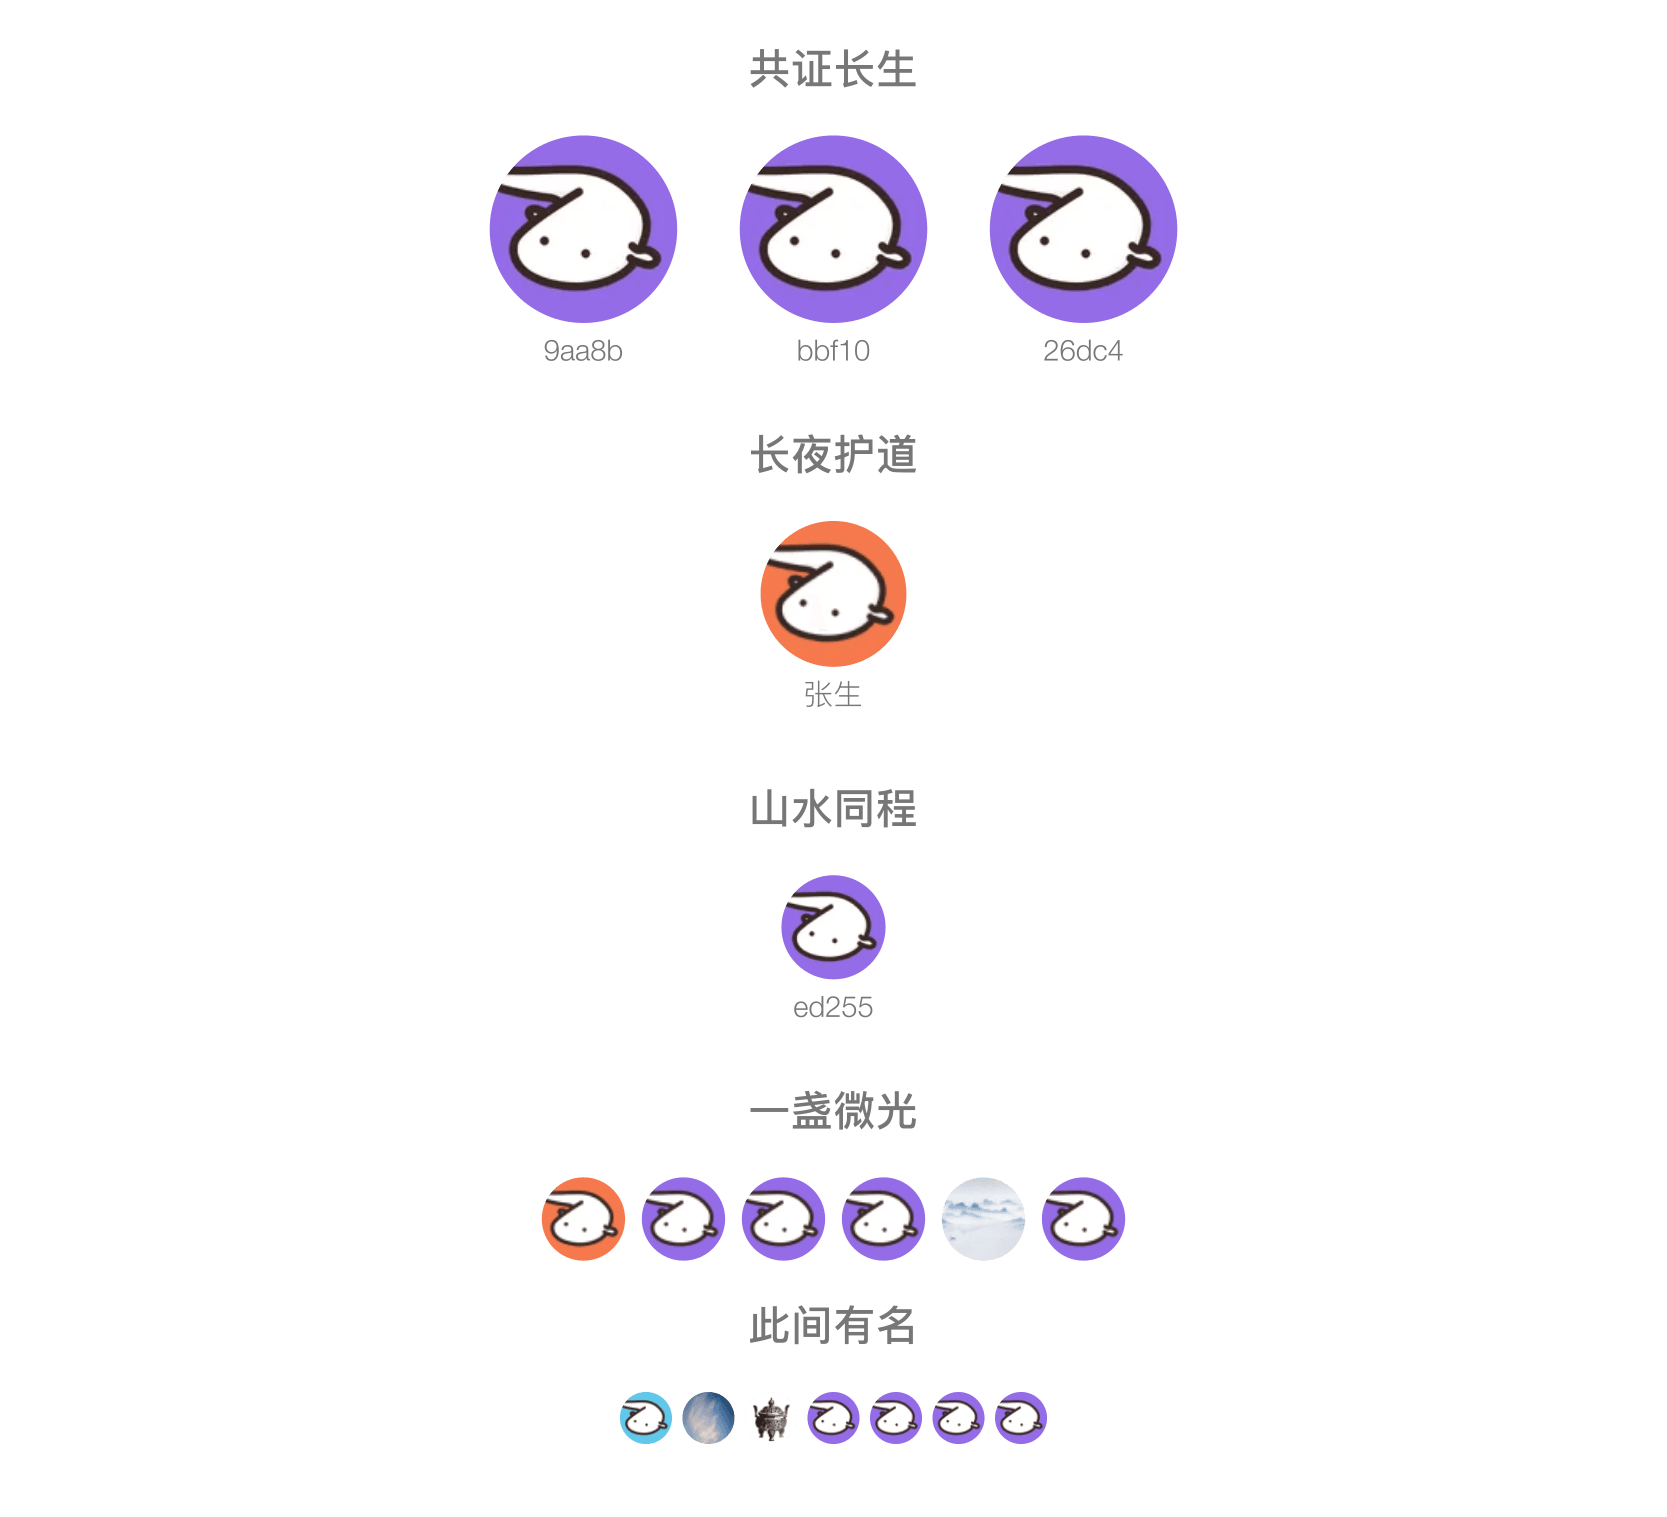
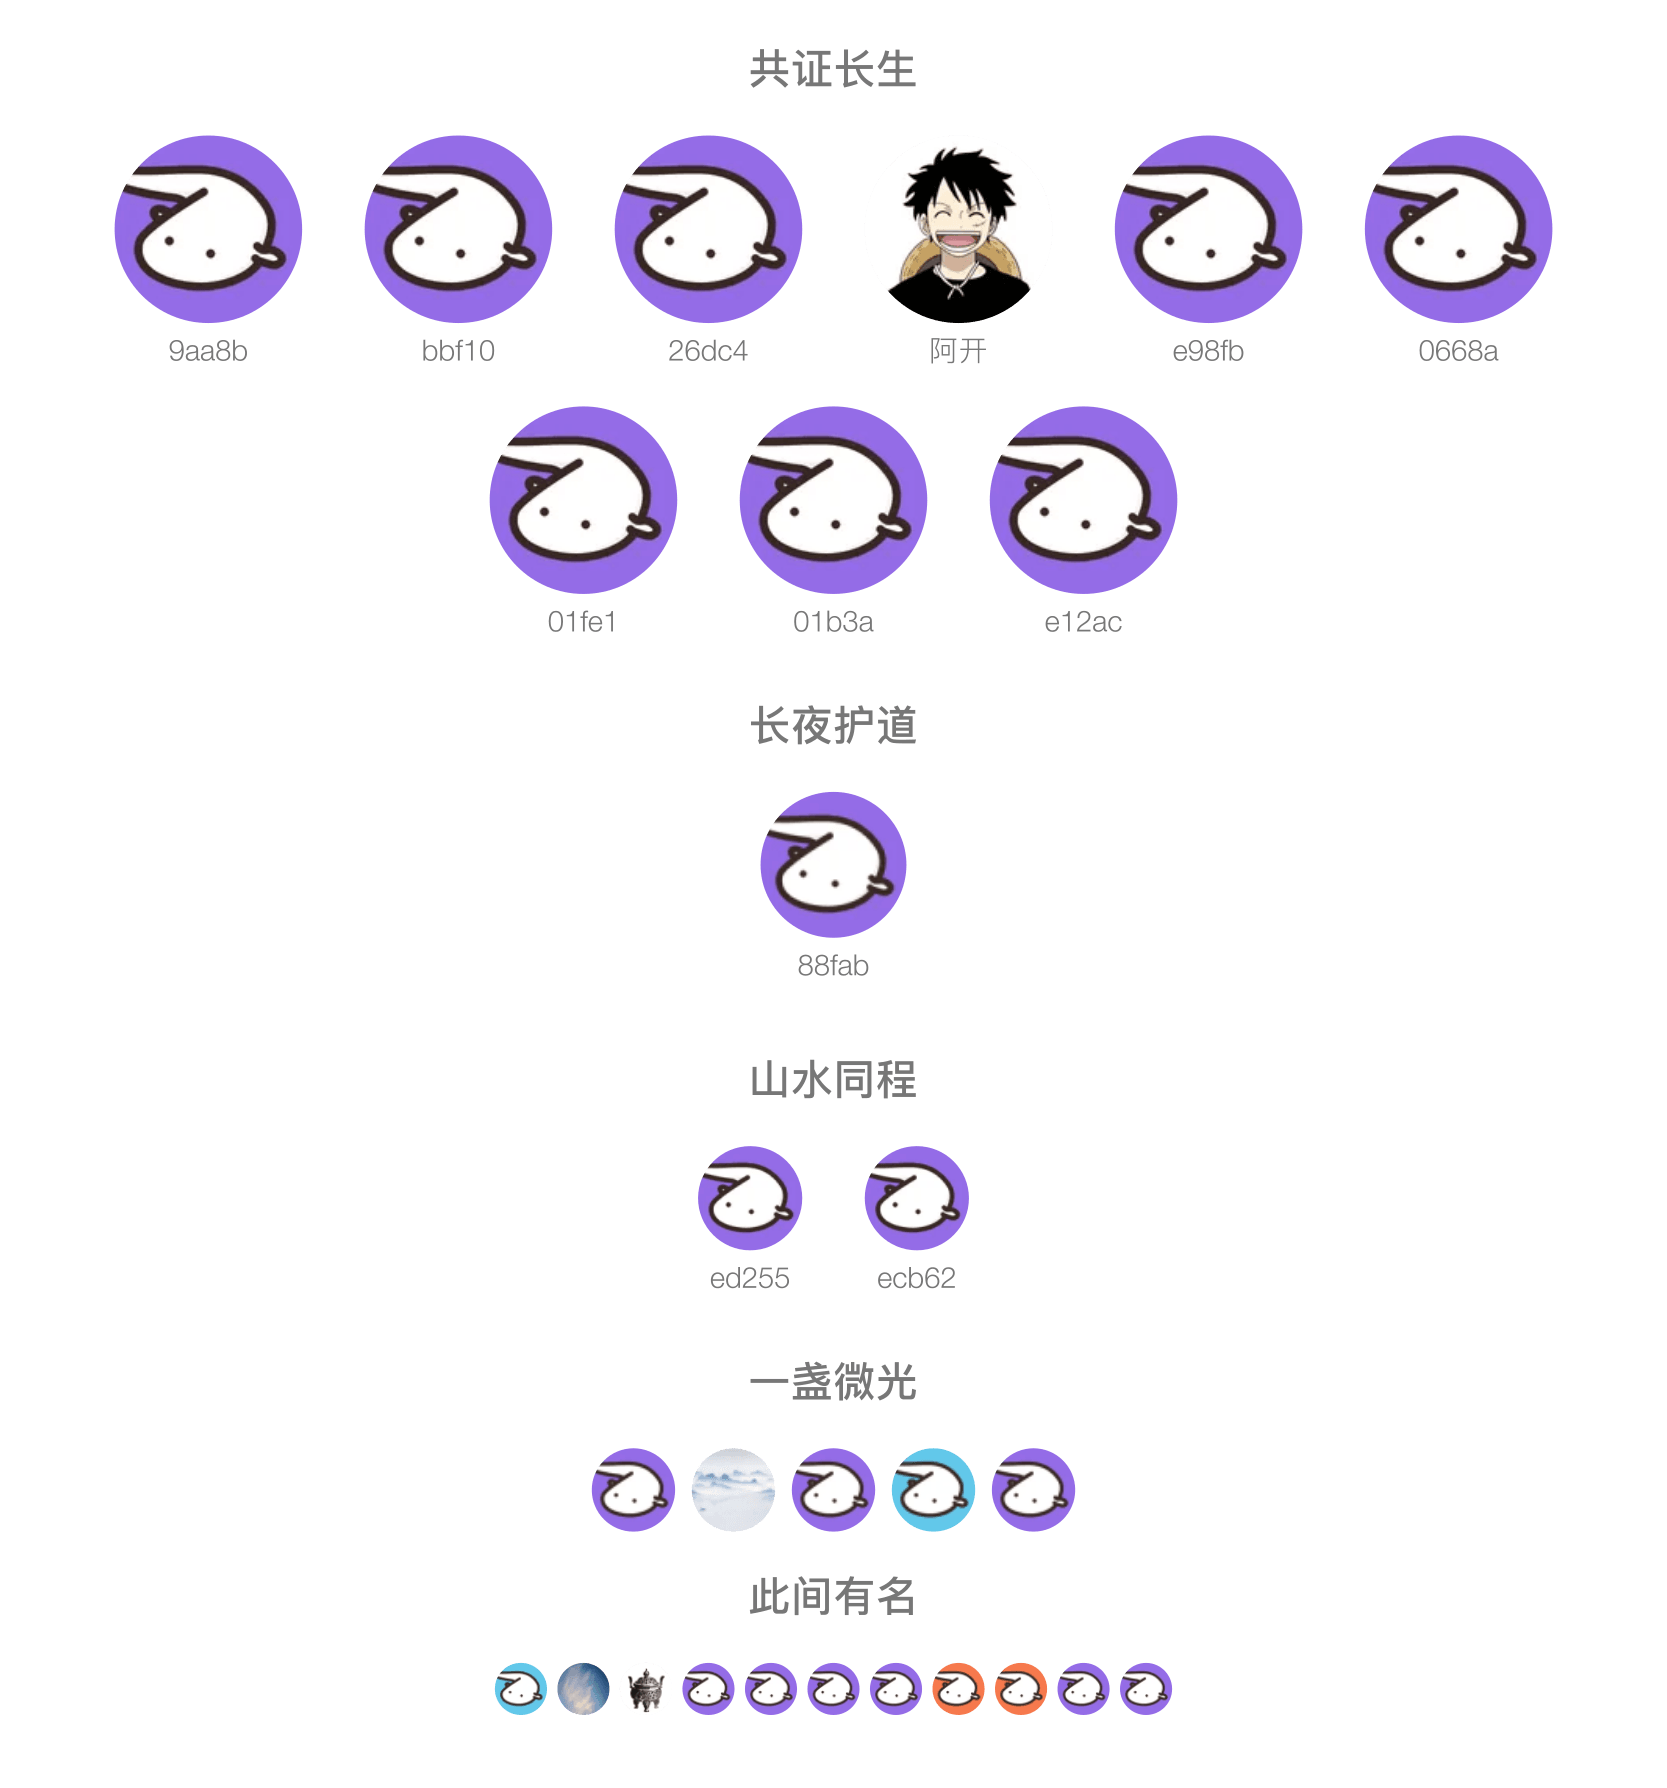
更新赞助者名单

Changed region(s): [[0.2184, 0.031, 0.7798, 0.9604], [0.811, 0.062, 0.9358, 0.2169], [0.0624, 0.062, 0.1872, 0.2169]]

diff --git a/SPONSORS.md b/SPONSORS.md
@@ -4,7 +4,7 @@
 
 > 本页自动生成，请勿直接编辑。同步爱发电运行 `pnpm run sponsors:sync`；仅更新历史名单时运行 `pnpm run sponsors:render`。
 
-最后更新：2026-08-07
+最后更新：2026-10-15
 
 ## 爱发电赞助人
 
